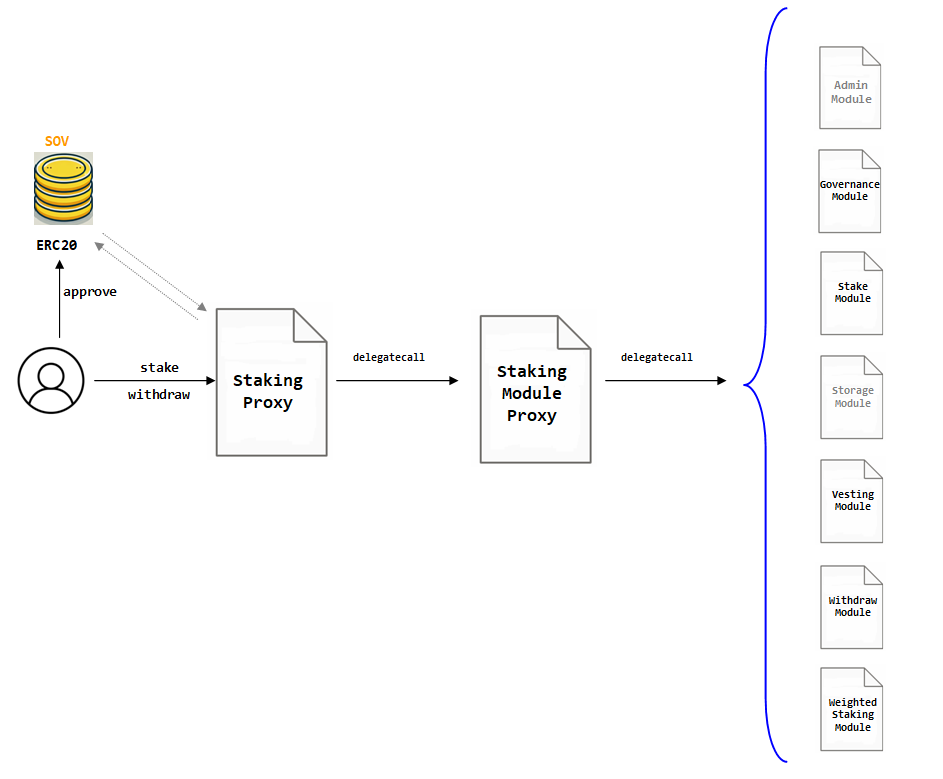
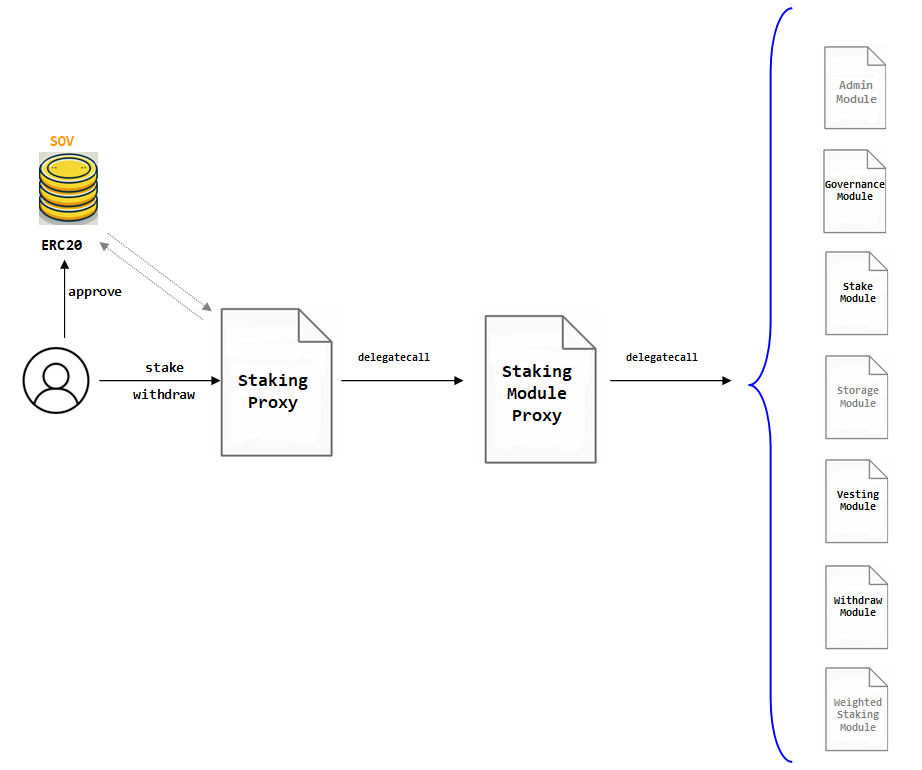
SOV-2652: Bitocracy documentation - completed staking, governance and fee sharing

diff --git a/smart-contracts/bitocracy/feeSharing.md b/smart-contracts/bitocracy/feeSharing.md
@@ -1,0 +1,77 @@
+---
+description: >-
+  The FeeSharingCollector contract. This contract withdraws fees to be paid to SOV Stakers from the protocol. Stakers call withdraw() to get their share of the fees.
+---
+
+# FEE SHARING COLLECTOR CONTRACT
+
+Staking is not only granting voting rights, but also access to fee sharing according to the own voting power in relation to the total. Whenever somebody decides to collect the fees from the protocol, they get transferred to this contract and converted when possible into rBTC. The fee sharing contract is set as `feesController` of the protocol contract. This allows the fee sharing contract to withdraw the fees. The fee sharing proxy holds the pool tokens and keeps track of which user owns how many tokens.  
+
+A similar dynamics happens with the AMM network of converters, and with the ZERO protocol. Also there was a program earning rewards from the "MYNT Bootstrap" protocol. So, the fee sharing contract can distribute `rBTC`, `ZUSD`, `SOV` and for some old stakers, some `MYNT` yet.  
+
+In order to know how many tokens a user owns, the fee sharing proxy needs to know the user’s weighted stake in relation to the total weighted stake (aka total voting power). Because both values are subject to change, they may be different on each fee withdrawal. To be able to calculate a user’s share of tokens when he wants to withdraw, we need checkpoints in time.  
+
+This contract is intended to be set as the protocol fee collector. Anybody can invoke the withdrawFees function which uses the `protocol.withdrawFees` function to obtain available fees from operations on a certain token. These fees are deposited in the corresponding loanPool. When a user calls the withdraw function, the contract transfers the fee sharing rewards in proportion to the user’s weighted stake since the last withdrawal.  
+
+## EXTRACTING REWARDS FROM CORE PROTOCOL, AMM AND ZERO
+
+Essentially, all fees distributed from the ZERO protocol are sent to the fee sharing contract each time a set of transaction of such protocol are performed. This is intimately related to the history of the Sovryn protocol: FeeSharingCollector was implemented after the AMM and the core protocol, so the fee distribution code was already set on those protocols, and we need a lump transfer from the fees collected from those protocols to the fee sharing;  while in the ZERO protocol, this setting was done in the process of implementing it on our ecosystem.  
+
+The extraction of fees from the core protocol is done by `feeSharingCollector.withdrawFees` function:  
+
+```solidity
+function withdrawFees(address[] calldata _tokens) external
+```
+
+**Arguments**
+
+<table><thead><tr><th width="200.33333333333334">Name</th><th width="165">Type</th><th>Description</th></tr></thead><tbody><tr><td>_tokens</td><td>address[]</td><td>Array address of the underlying tokens of each lending pool of the core protocol<br><br>This involves lendingFee + tradingFee + borrowingFee</td></tr></tbody></table>
+
+he extraction of fees from the AMM network protocol is done by `feeSharingCollector.withdrawFeesAMM` function:
+
+```solidity
+function withdrawFeesAMM(address[] memory _converters) public
+```
+
+**Arguments**
+
+<table><thead><tr><th width="200.33333333333334">Name</th><th width="165">Type</th><th>Description</th></tr></thead><tbody><tr><td>_converters</td><td>address[]</td><td>Array addresses of the AMM converters<br> -No of the assets-</td></tr></tbody></table>
+
+While a cronjob execute the former transactions once per week, anybody can execute them.  
+
+## CLAIMING REWARDS
+
+Currently there are two functions a user can execute in order to retrieve their rewards from Sovryn's protocol: 
+
+```solidity
+function withdraw(
+        address _token,
+        uint32 _maxCheckpoints,
+        address _receiver
+    ) public nonReentrant 
+```
+
+This function will withdraw accumulated fees per asset to the message sender. This method is suited for users that regularly withdraw their fees. When time has passed since the last withdrawal, gas fees can easily exceed the block gas limit of RSK network.
+
+**Arguments**
+
+<table><thead><tr><th width="200.33333333333334">Name</th><th width="165">Type</th><th>Description</th></tr></thead><tbody><tr><td>_token</td><td>address</td><td>Asset reward address; for rBTC, we use the dummy address:<br><br>0xeabd29be3c3187500df86a2613c6470e12f2d77d</td></tr><tr><td>_maxCheckpoints</td><td>uint32</td><td>Maximum number of checkpoints to be processed. Must be positive value, and recommended to be less than 100.<tr><td>_receiver</td><td>address</td><td>The receiver of tokens or msg.sender<br>.</tbody></table>  
+
+However, when to many assets per checkpoint are left to claim, the `withdraw` function becomes unfeasible, then we can use the following:
+
+```solidity
+function claimAllCollectedFees(
+        address[] calldata _nonRbtcTokensRegularWithdraw,
+        address[] calldata _rbtcTokensRegularWithdraw,
+        TokenWithSkippedCheckpointsWithdraw[] calldata _tokensWithSkippedCheckpoints,
+        uint32 _maxCheckpoints,
+        address _receiver
+    ) external nonReentrant
+```
+
+**Arguments**
+
+<table><thead><tr><th width="200.33333333333334">Name</th><th width="165">Type</th><th>Description</th></tr></thead><tbody><tr><td>_nonRbtcTokensRegularWithdraw</td><td>address[]</td><td>array of non-rbtc token address with no skipped checkpoints that will be withdrawn</td></tr><tr><td>_rbtcTokensRegularWithdraw</td><td>address[]</td><td>array of rbtc token address with no skipped checkpoints that will be withdrawn<tr><td>_tokensWithSkippedCheckpoints</td><td>TokenWithSkippedCheckpointsWithdraw[]<br><br>an array of parameters of struct type:<br>TokenWithSkippedCheckpointsWithdraw</td><td>array of rbtc & non-rbtc TokenWithSkippedCheckpointsWithdraw struct, which has skipped checkpoints that will be withdrawn<tr><td>_maxCheckpoints</td><td>uint32</td><td>Maximum number of checkpoints to be processed. Must be positive value, and recommended to be less than 100.<tr><td>_receiver</td><td>address</td><td>The receiver of tokens or msg.sender</tbody></table>
+
+The former function is complex to execute, so in order to get more details on how to implement it in an interface, the user can check the [unit tests](https://github.com/DistributedCollective/Sovryn-smart-contracts/blob/development/tests/FeeSharingCollectorTest.js#L450) of this function.
+

diff --git a/smart-contracts/bitocracy/staking.md b/smart-contracts/bitocracy/staking.md
@@ -11,54 +11,48 @@ description: >-
 
 Staking contract is an upgradeable contract deployed with a specific strategy to save the most amount of bytecode per module. As shown in the figure, the logics of the `Staking` contract is distributed in seven modules as described below:
 
-* Admin Module: .  
-* Admin Module: .  
-* Admin Module: .  
-* Admin Module: .  
-* Admin Module: .  
-* Admin Module: .  
-* Admin Module: .  
-
-After such transaction the user can address the execution of `mintTo` to the `MassetManager` contract. The `mintTo` function implies the internal execution of `safeTransferFrom` openzeppeling tool to bring the basic asset to the treasury of `MassetManager` and then the execution of `DLLR.mint` in favor of the user.
+* **Admin Module**: Is the access and control layer. It allows to set logics and parameters for the protocol. Its functions are accessible only by the `Timelock` itself or other designated administrators by the protocol.  
+* **Governance Module**: Is a calculator for voting power of users and delegates.  
+* **Stake Module**: The logics that governs the managing of staking positions.  
+* **Storage Module**: The logics that manages the way the proxy's storage is used.  
+* **Vesting Module**: The logics governing the way the staking positions for vesting contracts are created and tracked.  
+* **Withdraw Module**: Special logics ruling the way assets are withdrawn from staking.  
+* **Weighted Staking Module**: Is a complementary calculator for the weights of a staking position, required for the voting power and to determine the amount of profits claimable for the user.  
 
 
 ## STAKING ASSETS
 
-In order to perform the minting of DLLR assets, the user must own a balance of valid assets: so far, whether Dolar-on-Chain or "DOC" or Zero-Dollar or "ZUSD".
+In order to open a staking position, the user must own a balance of valid assets:`SOV` so far.
 
-The user must first execute the proper `approve` function to the ERC20 contract of the basic asset.
+The user must first execute the proper `approve` function to the ERC20 contract of `SOV`.
 
-After such transaction the user can address the execution of `mintTo` to the `MassetManager` contract. The `mintTo` function implies the internal execution of `safeTransferFrom` openzeppeling tool to bring the basic asset to the treasury of `MassetManager` and then the execution of `DLLR.mint` in favor of the user.
+After such transaction the user can address the execution of `stake` to the `Staking` contract. The `stake` function implies the internal execution of several `delegatecall`s to the `StakingModuleProxy` and several of logic modules.
 
 ```solidity
-function mintTo(
-        address _bAsset,
-        uint256 _bAssetQuantity,
-        address _recipient
-    ) external nonReentrant returns (uint256 massetMinted) 
+function stake(
+        uint96 amount,
+        uint256 until,
+        address stakeFor,
+        address delegatee
+    ) external whenNotPaused whenNotFrozen 
 ```
 
 **Arguments**
 
-<table><thead><tr><th width="200.33333333333334">Name</th><th width="165">Type</th><th>Description</th></tr></thead><tbody><tr><td>_bAsset</td><td>address</td><td>Address of the Basic Asset<br>.</td></tr><tr><td>_bAssetQuantity</td><td>uint256</td><td>Quantity in Basic - Asset units</td></tr><tr><td>_recipient</td><td>address</td><td>Receipient of the newly minted mAsset tokens</td></tr><tr><td>massetMinted</td><td>uint256</td><td>Number of newly minted mAssets</td></tr></tbody></table>
+<table><thead><tr><th width="200.33333333333334">Name</th><th width="165">Type</th><th>Description</th></tr></thead><tbody><tr><td>amount</td><td>uint96</td><td>The number of SOV tokens to stake</td></tr><tr><td>until</td><td>uint256</td><td>Timestamp in seconds<br> -blockchain format-<br> indicating the date until which to stake</td></tr><tr><td>stakeFor</td><td>address</td><td>The address to stake the tokens for or zero address if staking for oneself</td></tr><tr><td>delegatee</td><td>address</td><td>The address of the delegatee or zero address if there is none.</td></tr></tbody></table>
 
 ## UNSTAKING ASSETS
 
-In order to perform the minting of DLLR assets, the user must own a balance of valid assets: so far, whether Dolar-on-Chain or "DOC" or Zero-Dollar or "ZUSD".
-
-The user must first execute the proper `approve` function to the ERC20 contract of the basic asset.
-
-After such transaction the user can address the execution of `mintTo` to the `MassetManager` contract. The `mintTo` function implies the internal execution of `safeTransferFrom` openzeppeling tool to bring the basic asset to the treasury of `MassetManager` and then the execution of `DLLR.mint` in favor of the user.
+If a user had or still have a staking position can perform call the function `withdraw` to the `Staking` contract. Early unstaking will be punished. The current destin of punished SOV is the zero address (they are burned).
 
 ```solidity
-function mintTo(
-        address _bAsset,
-        uint256 _bAssetQuantity,
-        address _recipient
-    ) external nonReentrant returns (uint256 massetMinted) 
+function withdraw(
+  uint96 amount, 
+  uint256 until, 
+  address receiver) external whenNotFrozen 
 ```
 
 **Arguments**
 
-<table><thead><tr><th width="200.33333333333334">Name</th><th width="165">Type</th><th>Description</th></tr></thead><tbody><tr><td>_bAsset</td><td>address</td><td>Address of the Basic Asset<br>.</td></tr><tr><td>_bAssetQuantity</td><td>uint256</td><td>Quantity in Basic - Asset units</td></tr><tr><td>_recipient</td><td>address</td><td>Receipient of the newly minted mAsset tokens</td></tr><tr><td>massetMinted</td><td>uint256</td><td>Number of newly minted mAssets</td></tr></tbody></table>
+<table><thead><tr><th width="200.33333333333334">Name</th><th width="165">Type</th><th>Description</th></tr></thead><tbody><tr><td>amount</td><td>uint96</td><td>The number of SOV tokens to stake</td></tr><tr><td>until</td><td>uint256</td><td>Timestamp in seconds<br> -blockchain format-<br> indicating the date until which to stake<br><br>If until is not a valid "unlock" date, the next lock date after until is used.</td></tr><tr><td>receiver</td><td>address</td><td>The receiver of the tokens. If not specified, send to the msg.sender</td></tr></tbody></table>
 

diff --git a/smart-contracts/bitocracy/governor.md b/smart-contracts/bitocracy/governor.md
@@ -1,0 +1,70 @@
+---
+description: >-
+  The GovernorAlpha contract is an adapted clone of Compound’s governance model.
+---
+
+# GOVERNOR ALPHA CONTRACT
+
+The `GovernorAlpha` contract has two instances:
+
+* The `GovernorOwner`: Which is the one authorized to perform changes in the code of the Sovryn's protocol.
+
+* The `GovernorAdmin`: Which is the one authorized to perform settings in parameters of the code of the Sovryn's protocol, and make movement of funds.
+
+
+## MAKING A PROPOSAL
+
+Stakers can make (executable) proposals if they possess enough voting power, currently above the 1% of the total voting power.
+
+The execution of the `GovernorAlpha.propose` returns the number ID of the proposal.
+
+```solidity
+function propose(
+        address[] memory targets,
+        uint256[] memory values,
+        string[] memory signatures,
+        bytes[] memory calldatas,
+        string memory description
+    ) public returns (uint256) 
+```
+
+**Arguments**
+
+<table><thead><tr><th width="200.33333333333334">Name</th><th width="165">Type</th><th>Description</th></tr></thead><tbody><tr><td>targets</td><td>address[]</td><td>Array of contract addresses to perform proposal execution</td></tr><tr><td>values</td><td>uint256[]</td><td>Array of rBTC amounts to send on proposal execution</td></tr><tr><td>signatures</td><td>string[]</td><td>Array of function signatures to call on proposal execution</td></tr><tr><td>calldatas</td><td>bytes[]</td><td>Array of payloads for the calls on proposal execution</td></tr><tr><td>description</td><td>string</td><td>Text describing the purpose of the proposal</td></tr></tbody></table>
+
+## VOTING A PROPOSAL
+
+Once a proposal is successfully deployed, it has a window to be voted of `2880 blocks` in RSK blockchain, which is around 24 hours. Only stakers will have voting power. The execution of the former function does not revert if you are not a staker user: it just add zero voting weight to the proposal, and spends the needed gas. 
+
+```solidity
+castVote(uint256 proposalId, bool support) public
+```
+
+**Arguments**
+
+<table><thead><tr><th width="200.33333333333334">Name</th><th width="165">Type</th><th>Description</th></tr></thead><tbody><tr><td>proposalId</td><td>uint256</td><td>Proposal index to access the list proposals[] from storage</td></tr><tr><td>support</td><td>bool</td><td>Vote value, yes or no: whether you support or not the proposal</tbody></table>
+
+## QUEUEING A PROPOSAL
+
+If a proposal earns enough voting power in favor, the proposal must be put in a queue of 48 hours: this allow users that do not agree with the results to withdraw their funds from Sovryn protocol. Anybody can put in que an approved proposal.
+
+```solidity
+function queue(uint256 proposalId) public 
+```
+
+**Arguments**
+
+<table><thead><tr><th width="200.33333333333334">Name</th><th width="165">Type</th><th>Description</th></tr></thead><tbody><tr><td>proposalId</td><td>uint256</td><td>Proposal index to access the list proposals[] from storage</td></tr></tbody></table>
+
+## EXECUTING A PROPOSAL
+
+After the minimum queue time windows is done, anybody can execute an approved proposal.
+
+```solidity
+function execute(uint256 proposalId) public payable 
+```
+
+**Arguments**
+
+<table><thead><tr><th width="200.33333333333334">Name</th><th width="165">Type</th><th>Description</th></tr></thead><tbody><tr><td>proposalId</td><td>uint256</td><td>Proposal index to access the list proposals[] from storage</td></tr></tbody></table>
+
